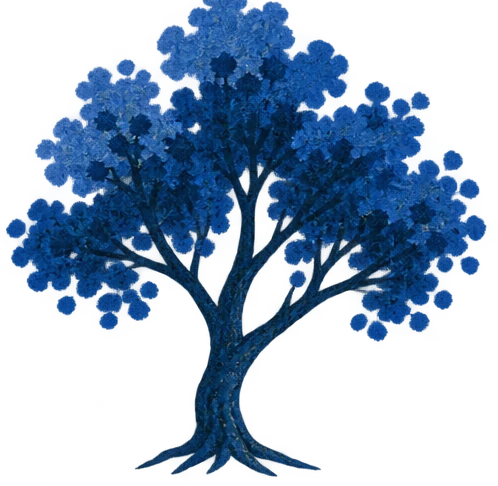
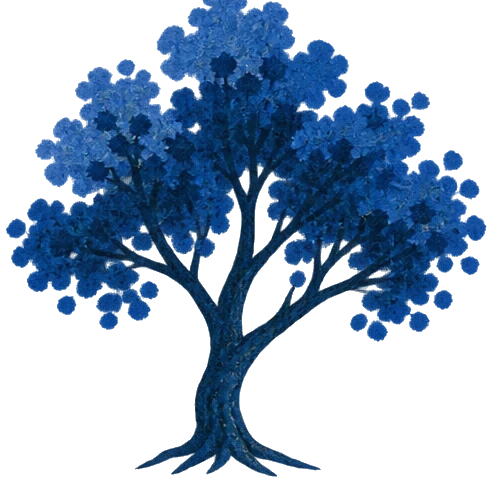
Quiet Meadow: its own broad trees pass behind Sísí, at full colour and tall enough that their crowns run off the top (the art's cut never shows); the tree art's faint haze cleared (no square box over the sky)

Changed region(s): [[0.241, 0.4938, 0.2711, 0.5556], [0.8133, 0.6173, 0.8434, 0.6481], [0.7229, 0.5864, 0.753, 0.6173]]

diff --git a/lib/sceneTheme.ts b/lib/sceneTheme.ts
@@ -2,6 +2,7 @@
 
 import type { SpriteArt } from "@/components/sisi/journey-v2/PassingSprites";
 import { useEquippedWorld, type WorldId } from "@/lib/worlds";
+import { FRONT_TREES } from "@/lib/worldArt";
 
 /**
  * lib/sceneTheme — the ground of each place on the Map (lib/worlds).
@@ -63,6 +64,8 @@ export type SceneTheme = {
   /** the theme's own bigger trees on the far shore, behind Sísí (a layer of
    *  depth between the far reeds and the bridge) */
   midTrees?: SpriteArt[];
+  /** their painted height, a fraction of the stage (default 0.32–0.42) */
+  midTreeHeight?: [number, number];
   /** a place that closes over the sky (a forest): its own backdrop instead of
    *  the sky and clouds (the time of day still tints it) */
   backdrop?: string;
@@ -83,6 +86,12 @@ export const SCENE_THEMES: Record<SceneThemeId, SceneTheme> = {
     path: "/V2/parallax/journey-walking-path.webp",
     // the path band's centre (row 409.5 of 768) on the baseline
     pathBottom: "calc(var(--walking-baseline) - 18.67%)",
+    // the meadow's own broad-crowned trees, passing behind Sísí at full colour
+    // (nearer than the faint far trees, which stay as the distance)
+    midTrees: FRONT_TREES,
+    // drawn as near trees (crowns cut at the top of the art): tall enough that
+    // the crowns run off the top of the screen, so the cut never shows
+    midTreeHeight: [0.78, 0.88],
     midgroundHeight: 0.18,
     midgroundBottom: "calc(var(--walking-baseline) - 1.5%)",
     groundBottom: "calc(var(--walking-baseline) - 1% - 26.95%)",

diff --git a/app/journey/page.tsx b/app/journey/page.tsx
@@ -1244,7 +1244,7 @@ export default function JourneyPage() {
               every={[2.2, 3.5]}
               first={[0.6, 1.2]}
               startInView
-              height={[0.32, 0.42]}
+              height={scene.midTreeHeight ?? [0.32, 0.42]}
               base={[0.5, 2.5]}
               max={2}
               filter={TOD_GRADE}
